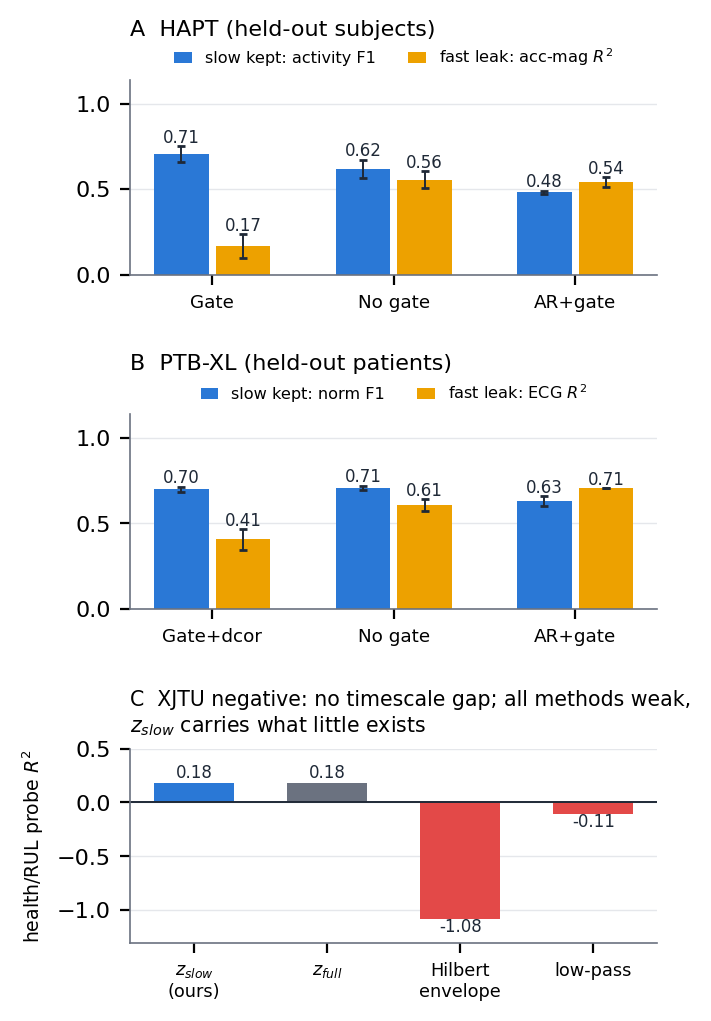
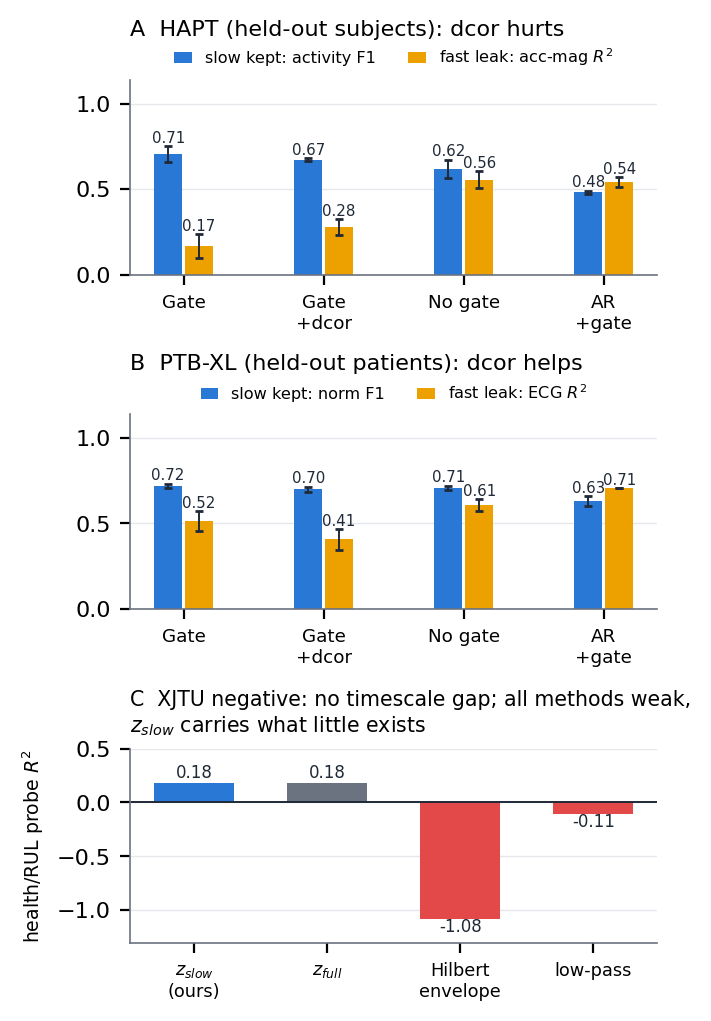
Real-data figure/table: show gate vs gate+dcor on both HAPT and PTB-XL
Makes the decorrelation penalty's data-dependent polarity explicit (dcor
hurts HAPT, helps PTB-XL) instead of silently reporting the best variant per
dataset. Table 2 and fig_real caption updated; flags label-free dcor
on/off selection as open.

diff --git a/figures_paper.py b/figures_paper.py
@@ -195,8 +195,9 @@ fig.savefig("fig_mech.png", bbox_inches="tight")
 fig, (a0, a1, a2) = plt.subplots(3, 1, figsize=(W, 5.6),
                                  gridspec_kw=dict(hspace=0.72))
 H = {"Gate": "runs_hapt/hapt_nepa_g1_d0_s*.json",
+     "Gate\n+dcor": "runs_hapt/hapt_nepa_g1_d1_s*.json",
      "No gate": "runs_hapt/hapt_nepa_g0_d0_s*.json",
-     "AR+gate": "runs_hapt/hapt_ar_g1_d0_s*.json"}
+     "AR\n+gate": "runs_hapt/hapt_ar_g1_d0_s*.json"}
 Hs = {k: stats(p) for k, p in H.items()}
 bars(a0, list(H), [
     ("slow kept: activity F1", BLUE,
@@ -204,14 +205,16 @@ bars(a0, list(H), [
      [Hs[v]["z_slow->activity_f1"][1] for v in H]),
     ("fast leak: acc-mag $R^2$", YELLOW,
      [max(Hs[v]["z_slow->accmag_r2"][0], 0) for v in H],
-     [Hs[v]["z_slow->accmag_r2"][1] for v in H])], gap=0.34, w=0.3)
+     [Hs[v]["z_slow->accmag_r2"][1] for v in H])], gap=0.22, w=0.2, fs=5.4)
 a0.legend(fontsize=5.8, frameon=False, ncols=2, loc="lower center",
           bbox_to_anchor=(0.5, 0.99), handlelength=1.1)
-a0.set_title("A  HAPT (held-out subjects)", fontsize=8, loc="left", pad=16)
+a0.set_title("A  HAPT (held-out subjects): dcor hurts", fontsize=8,
+             loc="left", pad=16)
 
-P = {"Gate+dcor": "runs_ptbxl/ptbxl_nepa_g1_d1_s*.json",
+P = {"Gate": "runs_ptbxl/ptbxl_nepa_g1_d0_s*.json",
+     "Gate\n+dcor": "runs_ptbxl/ptbxl_nepa_g1_d1_s*.json",
      "No gate": "runs_ptbxl/ptbxl_nepa_g0_d0_s*.json",
-     "AR+gate": "runs_ptbxl/ptbxl_ar_g1_d0_s*.json"}
+     "AR\n+gate": "runs_ptbxl/ptbxl_ar_g1_d0_s*.json"}
 Ps = {k: stats(p) for k, p in P.items()}
 bars(a1, list(P), [
     ("slow kept: norm F1", BLUE,
@@ -219,10 +222,11 @@ bars(a1, list(P), [
      [Ps[v]["z_slow->norm_f1"][1] for v in P]),
     ("fast leak: ECG $R^2$", YELLOW,
      [max(Ps[v]["z_slow->ecg_r2"][0], 0) for v in P],
-     [Ps[v]["z_slow->ecg_r2"][1] for v in P])], gap=0.34, w=0.3)
+     [Ps[v]["z_slow->ecg_r2"][1] for v in P])], gap=0.22, w=0.2, fs=5.4)
 a1.legend(fontsize=5.8, frameon=False, ncols=2, loc="lower center",
           bbox_to_anchor=(0.5, 0.99), handlelength=1.1)
-a1.set_title("B  PTB-XL (held-out patients)", fontsize=8, loc="left", pad=16)
+a1.set_title("B  PTB-XL (held-out patients): dcor helps", fontsize=8,
+             loc="left", pad=16)
 
 # C: XJTU negative — life (RUL) probe, held-out bearings, learned vs classical
 Xs = stats("runs_am/am_nepa_g1_d1_s*.json")

diff --git a/report.tex b/report.tex
@@ -316,9 +316,12 @@ information-level reduction --- not information-theoretic removal.
 \includegraphics[width=\linewidth]{fig_real.pdf}
 \vspace{-5mm}
 \caption{\small \textbf{Real data, group-split, absolute scores (3 seeds).}
-\textbf{A:} HAPT (held-out subjects) --- the gate cuts fast leak
-$0.56\!\to\!0.17$ while keeping activity F1. \textbf{B:} PTB-XL (held-out
-patients) --- a smaller but consistent reduction ($0.61\!\to\!0.41$).
+Both panels show gate and gate+dcor, exposing the decorrelation penalty's
+opposite polarity. \textbf{A:} HAPT (held-out subjects) --- the gate cuts fast
+leak $0.56\!\to\!0.17$ at activity F1 $0.71$, and adding dcor \emph{hurts}
+(leak $0.28$, F1 $0.67$). \textbf{B:} PTB-XL (held-out patients) --- here dcor
+\emph{helps} (leak $0.61\!\to\!0.41$). Whether to enable dcor is currently a
+per-dataset choice we cannot yet make label-free.
 \textbf{C:} XJTU (held-out bearings), the predicted negative: with no
 within-window timescale gap, health/RUL is weak for every method --- Hilbert
 and low-pass features fail to transfer --- and $z_{\mathrm{slow}}$ carries
@@ -384,10 +387,12 @@ score in brackets.}
 \toprule
 Dataset & Variant & slow-kept $\uparrow$ & fast-leak $\downarrow$ \\
 \midrule
-HAPT (act F1)   & gate    & \textbf{0.71} [0.80] & \textbf{0.17} \\
-                & no gate & 0.62 & 0.56 \\
+HAPT (act F1)   & gate      & \textbf{0.71} [0.80] & \textbf{0.17} \\
+                & gate+dcor & 0.67 & 0.28 \\
+                & no gate   & 0.62 & 0.56 \\
 PTB-XL (norm F1) & gate+dcor & 0.70 [0.74] & \textbf{0.41} \\
-                 & no gate & 0.71 & 0.61 \\
+                 & gate      & 0.72 & 0.52 \\
+                 & no gate   & 0.71 & 0.61 \\
 \bottomrule
 \end{tabular}
 \end{table}
